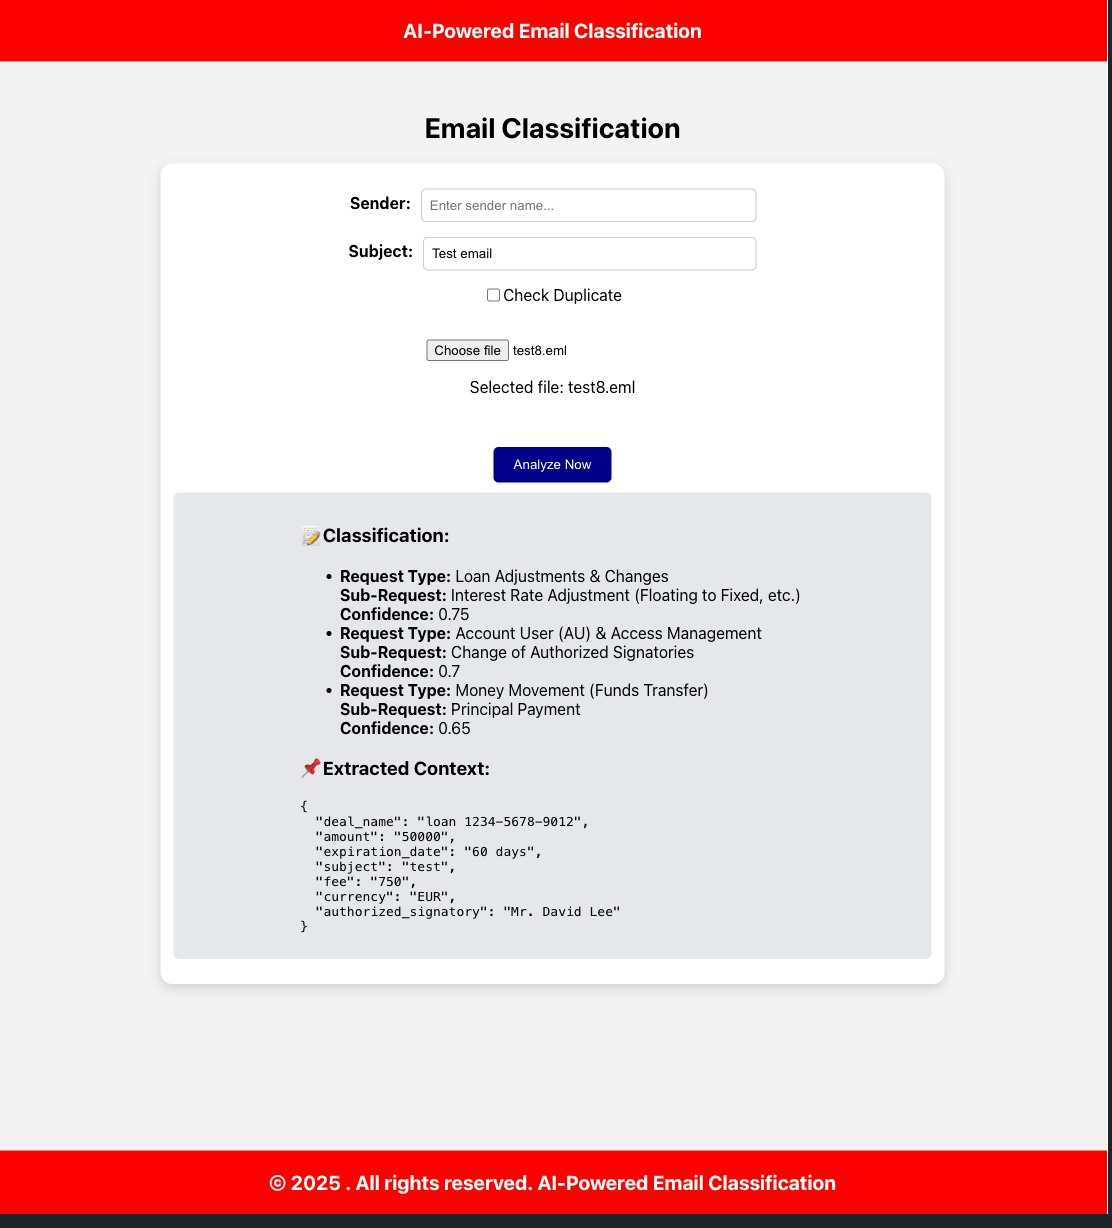
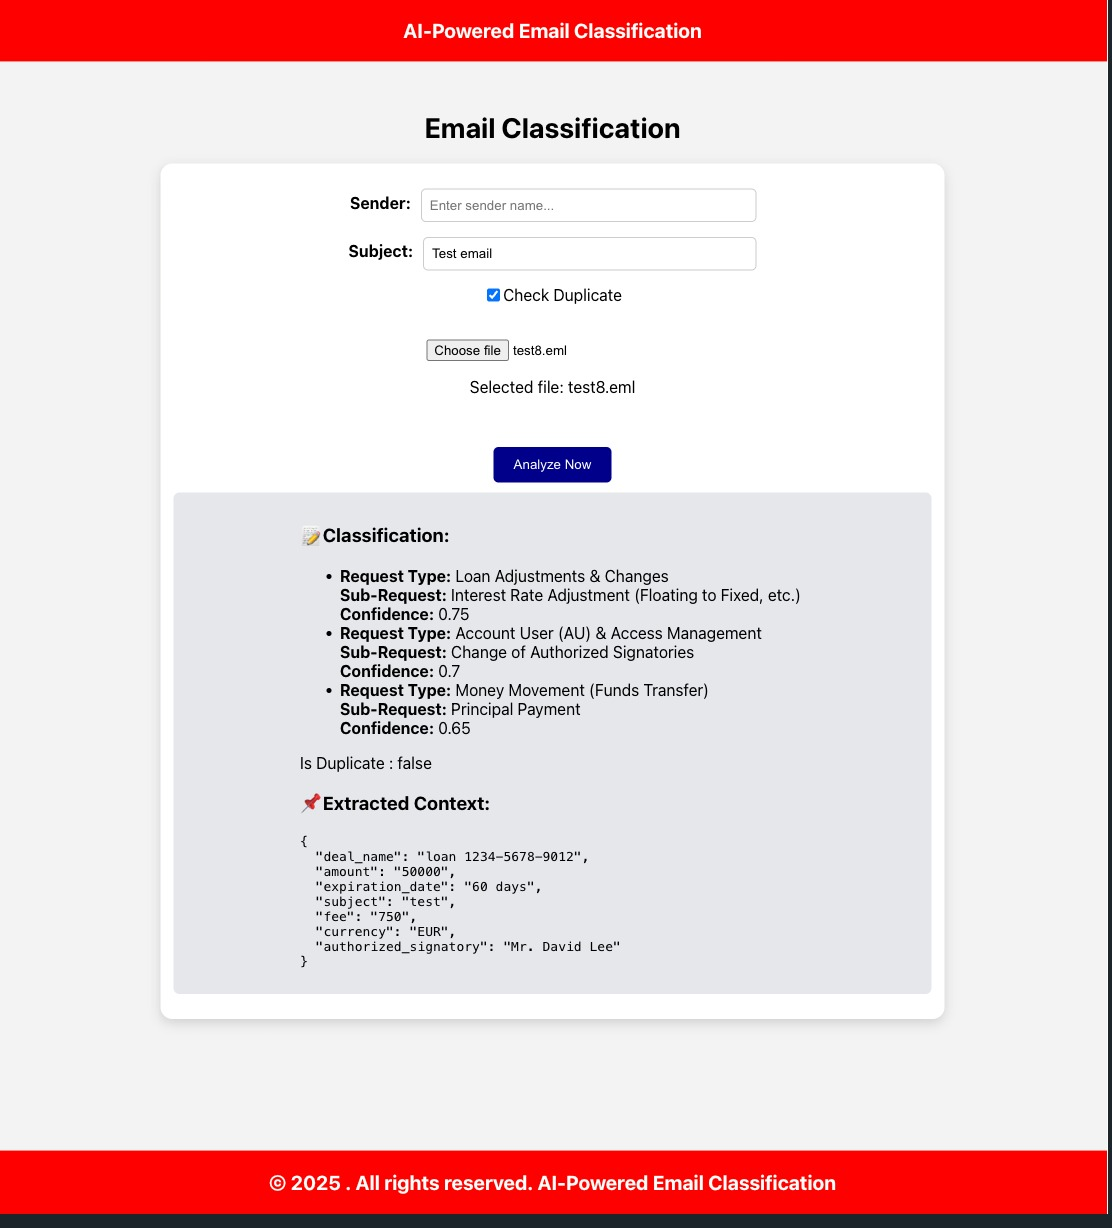
Update README with API and UI screenshots, and add instructions for starting the backend and UI

Changed region(s): [[0.1529, 0.6189, 0.8561, 0.8046], [0.4281, 0.2166, 0.4586, 0.2476]]

diff --git a/code/src/UI/src/components/Analyzer.tsx b/code/src/UI/src/components/Analyzer.tsx
@@ -124,6 +124,7 @@ const Analyzer = () => {
                                 </ul>
 
                                 {/* Duplicate Email Warning */}
+                                <p>Is Duplicate : {result.is_duplicate ? "true" : "false"}</p>
                                 {result.is_duplicate && (
                                     <div className='duplicate-warning'>
                                         <span role='img' aria-label='warning'>
@@ -135,7 +136,6 @@ const Analyzer = () => {
                                         <p>Duplicate ID: {result.duplicate_email_id}</p>
                                     </div>
                                 )}
-
                                 {/* Extracted Context */}
                                 <h3>
                                     <span role='img' aria-label='pin'>

diff --git a/README.md b/README.md
@@ -21,16 +21,25 @@ This project automates email classification and data extraction using Gen AI LLM
 
 📹 [Video Demo](artifacts/demo/VideoDemo.MP4)
 
-🖼 Screenshots:
+### 🖼 Screenshots:
 
-Email Classification reponse:
+#### API Screenshots: 
+
+Email Classification response:
 ![Screenshot 1](artifacts/demo/screenshots/email_classification_response.png)
 
-Email Classification reponse for a duplicate email:
+Email Classification response for a duplicate email:
 ![Screenshot 2](artifacts/demo/screenshots/duplicate_email_response.png)
 
-UI:
+#### UI Screenshots:
+
+Email Classification:
+
 ![Screenshot 3](artifacts/demo/screenshots/UI_classification.jpeg)
+
+Duplicate Email Classification:
+
+![Screenshot 4](artifacts/demo/screenshots/UI_duplicate_response.jpeg)
 
 ## 💡 Inspiration
 The manual process of data extraction and classification requires a team of gate keepers , is time consuming and prone to human errors. The main objective of this project is to solve this use case of removing human intervention and automate the whole classification process.
@@ -69,6 +78,7 @@ PyMuPDF (fitz): For extracting text from PDF files.
 Describe the major technical or non-technical challenges your team encountered.
 
 ## 🏃 How to Run
+### How to Start the backend server
 1. Clone the repository  
    ```sh
    git clone https://github.com/ewfx/gaied-scoeindia.git
@@ -97,6 +107,21 @@ Describe the major technical or non-technical challenges your team encountered.
    python main.py
    ```
    Application will be up and running on http://0.0.0.0:8000
+
+### How to Start the UI
+1. Go to the UI folder
+   ```sh
+   cd ./UI
+   ```
+2. Install the node dependencies
+   ```sh
+   npm i
+   ```
+3. Start the frontend application
+   ```sh
+   npm start
+   ```
+UI will be up and running on http://localhost:5000
 
 ## 🏗 Tech Stack
 - 🔹 Frontend: HTML, CSS, React, TypeScript
